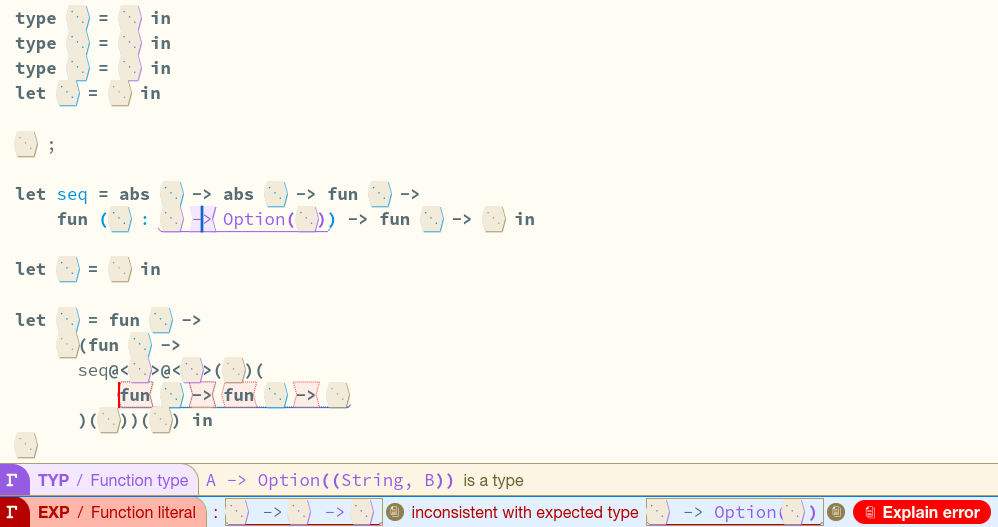
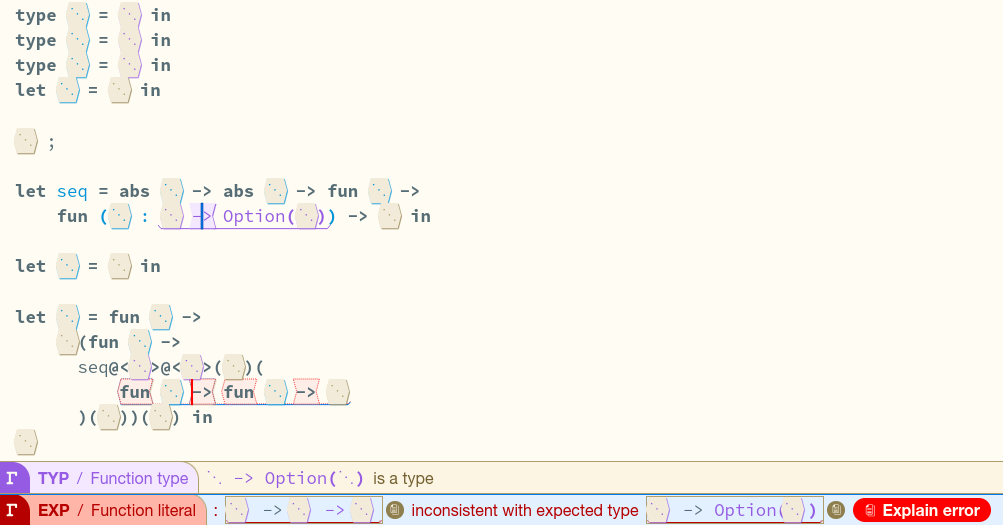
wording edits to intro, examples, remove minor subsection in sec14

diff --git a/intro.tex b/intro.tex
@@ -11,28 +11,28 @@ Programmers must hunt through the program themselves to answer these questions, 
 
 This {paper} develops the theory of \textit{type slicing} from type-theoretic first principles. Type slices allow developers to ask ``why questions''~\cite{developers-ask-why-questions} about type information reported about arbitrary terms within a (possibly incomplete or erroneous) program. The answers are given in the form of a minimal slice of the original program (i.e. a program with unrelated terms folded away) that suffices to reproduce the queried type. 
 
-Type slicing is inspired in principle by prior work on program slicing (reviewed in detail in \cref{sec:related-work}), in particular, lattice-based \textit{Galois slicing}~\cite{Perera2012,Ricciotti2017,PereraGarg2016,PereraVis2022,AtkeyPerera2025}. However, slicing is here applied to a (non-Galois) static type checking setting, loosely more akin to type-error slicing~\cite{Wand1986,HaackWells2003,TipDinesh2001} (but our model also explains well-typed programs), and the concurrent independently researched work on \emph{type-directed slicing}~\cite{TypeDirectedSlicing} for Java.
+Type slicing is inspired in principle by prior work on program slicing (reviewed in detail in \cref{sec:related-work}), in particular, lattice-based \textit{Galois slicing}~\cite{Perera2012,Ricciotti2017,PereraGarg2016,PereraVis2022,AtkeyPerera2025}. However, slicing is here applied to a (non-Galois) static type checking setting, loosely more akin to type-error slicing~\cite{Wand1986,HaackWells2003,TipDinesh2001}, and the concurrent independently researched work on \emph{type-directed slicing}~\cite{TypeDirectedSlicing} for Java.
 
 We consider the problem of type slicing in the context of \emph{bidirectional type systems}~\cite{BidirectionalTypes}, which distinguish \emph{type synthesis} (which type does this term have) from \emph{type analysis} (which type is expected).
 Correspondingly, a \textit{synthesis slice} (\cref{sec:synthesis}) of a selected term answers ``which parts of the program caused it to have type $\tau$?'' and an \textit{analysis slice} (\cref{sec:analysis}) answers the complementary question, ``which parts of the surrounding program enforced that this term have type $\tau$?''
 
 Queries can be \textit{refined}, say from an entire function type to just its codomain, resulting in a smaller slice. This allows a programmer to incrementally focus on sub-parts of the type that are of interest. For example, maybe after some exploration, the programmer determines that only a small region of a large record type involved in a type error is erroneous.
 
-The type slicing machinery applies equally well to well-typed and ill-typed terms. In the case of ill-typed terms, it provides a mechanism that may aid in debugging type errors.
+\paragraph{Type Error Debugging} The type slicing machinery applies equally well to well-typed and ill-typed terms. In the case of ill-typed terms, it provides a mechanism that may aid in debugging type errors, subsuming the question of ``why is this term a type error?''
 
 A distinguishing feature of type slicing is that a slice is itself a valid incomplete program that preserves the original's shape; in Hazel, which allows incomplete programs, this is simply a valid program. Type slicing therefore \emph{composes} with most other type debugging methods in the literature rather than competing with them, as we can simpy run them on the minimised programs. 
 
-For example, there has been much research into improving error \emph{localisation} in globally inferred languages~\cite{ZhangMyers2014,PavlinovicKingWies2014}; these techniques do not apply to the bidirectionally typed language this paper considers, but would be equally applicable to one which uses global constraints, for example \edited{a bidirectional system with constraint-based inference of implicit type instantiations~\cite{BidirectionalHigherRank}}. Equally, \emph{counter-factual}~\cite{ChenErwig2014,LernerSeminal2007} type debugging reports the type/program edits that would make the program type-check, often interactively~\cite{Chitil2001}; these would be equally applicable, and in fact simpler, for minimised programs. 
+For example, there has been much research into improving error \emph{localisation} in globally inferred languages~\cite{ZhangMyers2014,PavlinovicKingWies2014}; these techniques do not apply to the bidirectionally typed language this paper considers, but would be equally applicable to one which uses global constraints, for example that of \citet{BidirectionalHigherRank}. Equally, \emph{counter-factual}~\cite{ChenErwig2014,LernerSeminal2007} type debugging reports the type/program edits that would make the program type-check, often interactively~\cite{Chitil2001}; these would be equally applicable, and in fact simpler, for minimised programs. 
 
 Further, editing the `type' of an expression as suggested by one of these tools is not necessarily easy when the surrounding context expects a different type to the edit. Bidirectional type slicing allows you to query this surrounding context via the \textit{analysis slice}, pointing you to surrounding terms (typically annotations) that must be modified in order to make such an edit. Such slices also make refactoring code into different type in general easier by pointing you to the conflicting annotations.
 
 
 \subsection{Contributions}
 \label{sec:scope}
-The theory contributed by this paper applies to \textit{bidirectional type systems} with any form of \textit{downwards static graduality} (\cref{sec:gradual-types}) on expressions, inspired by the gradual typing literature~\cite{GradualRefined} extended to incomplete programs, i.e. programs with holes and marked errors. In particular, the formal development is based on the Hazelnut calculus~\cite{Hazelnut2017} and subsequent work on the marked lambda calculus~\cite{Marking2024}. Notably, we do \textit{not} require any cast dynamics like in gradual type systems, meaning type slicing is applicable to any bidirectional system only by assigning an appropriate precision relation on types and terms (\cref{sec:core-lattice}).
+The theory contributed by this paper applies to \textit{bidirectional type systems} with any form of \textit{downwards static graduality} (\cref{sec:gradual-types}) on expressions, inspired by the gradual typing literature~\cite{GradualRefined} extended to incomplete programs, i.e. programs with holes (and marked errors). In particular, the formal development is mostly based on the Hazelnut calculus~\cite{Hazelnut2017} and subsequent work on the marked lambda calculus~\cite{Marking2024}. Notably, we do \textit{not} require any cast dynamics like in gradual type systems, meaning type slicing is applicable to any bidirectional system only by assigning an appropriate precision relation on types and terms (\cref{sec:core-lattice}).
 The core calculus for type slicing and accompanying metatheory developed in this paper has been mechanised in Agda. This development is available in the supplemental material.
 
-An example full-scale language which satisfies these conditions is Hazel~\cite{hazel-website}, whose implementation we have extended with an efficient linear-time approximation of type slicing. This implementation, which we introduce by example in \cref{sec:slicing-by-example}, is available in the supplemental material. We do not make any specific claims about the usability of the prototype user interface presented in this paper; it is intended only as an initial proof of concept. We expect the theory contributed by this paper to allow a variety of user interfaces for type debugging and explanation to be developed and evaluated in practice. We suggest several avenues for exploration by the community in \cref{sec:further-work}. For example, recent work~\cite{TypeDirectedSlicing} developed a \emph{type-directed} slicer for Java and evaluated it as an aid for debugging type checkers \emph{themselves}, by reducing bug reports against large codebases to small type-behaviour-preserving test cases; we discuss how this relates to type slicing in \cref{sec:related-work}.
+An example full-scale language which satisfies these conditions is Hazel~\cite{hazel-website}, whose implementation we have extended with an efficient linear-time approximation of type slicing. This implementation, which we introduce by example in \cref{sec:slicing-by-example}, is available in the supplemental material. We do not make any specific claims about the usability of the prototype user interface presented in this paper; it is intended only as an initial proof of concept. We expect the theory contributed by this paper to allow a variety of user interfaces and further applications for type debugging and explanation to be developed and evaluated in practice. We suggest several avenues for exploration in \cref{sec:further-work}. For example, recent work~\cite{TypeDirectedSlicing} developed a \emph{type-directed} slicer for Java and evaluated it as an aid for debugging type checkers \emph{themselves}, by reducing bug reports against large codebases to small type-behaviour-preserving test cases; we discuss how this relates to type slicing in \cref{sec:related-work}.
 
 %%% Local Variables:
 %%% mode: LaTeX

diff --git a/ui.tex b/ui.tex
@@ -1,7 +1,11 @@
 \section{Type Slicing in Hazel by Example}
 \label{sec:slicing-by-example}
 
-{This section previews type slicing, formally developed in \cref{sec:synthesis,sec:analysis} over the core calculus of \cref{sec:core-calculus}, through two worked examples in the Hazel implementation. Type slicing answers with a \synsrc{synthesis} slice explains why the term \emph{has} its type and an \anasrc{analysis} slice explains why its context \emph{demands} one. Hazel renders each answer by folding away every fragment the queried type does not require.}
+{This section previews type slicing, formally developed in \cref{sec:synthesis,sec:analysis} over the core calculus of \cref{sec:core-calculus}, through two worked examples in the Hazel implementation. 
+
+The Hazel UI has a cursor inspector at the bottom of the screen which details which type the selected term \textit{has}, and what it \textit{expects}, these are the respective types to calculate a \synsrc{synthesis} slice and an \anasrc{analysis} slice for. 
+
+Hazel renders each slice by folding away every fragment the queried type does not require. The user can refine their slice by themselves folding away part of the type being sliced, which will correspondingly fold away additional fragments of the program.}
 
 \definecolor{annotcolor}{HTML}{955BE3}
 \tikzset{
@@ -54,9 +58,9 @@
 \label{fig:parse-digit-synthesis}
 \end{figure}
 
-\Cref{fig:parse-digit-synthesis} slice a small character parser. The synthesis slice folds the whole function to just the \texttt{String} domain annotation, and the first branch determining the result option type, discarding all other branches.\footnote{Folding all other branches into a single fold projector is not currently supported by the Hazel UI, but is shown here for illustrative purposes.}
+\Cref{fig:parse-digit-synthesis} slices a small character parser. The synthesis slice folds the whole function to just the \texttt{String} domain annotation, and the first branch determining the result option type, discarding all other branches.\footnote{Folding all other branches into a single fold projector is not currently supported by the Hazel UI, but is shown here for illustrative purposes.}
 
-Queries may target \emph{part} of a reported type: asking only about the domain \synsrc{\texttt{String → \fold}} shrinks the slice to exclude the entire function body. This is the minimal \textit{analysis} slice which enforces \anasrc{\texttt{String}} on the argument (\cref{fig:parse-digit-analysis}).
+Refined queries may target \emph{part} of a reported type: for example, asking only about the domain of a function type, by folding away the returned sum type (\synsrc{\texttt{String → \fold}}). The resulting program shrinks the slice to exclude the entire function body (\cref{fig:parse-digit-analysis}). This same slice is also the minimal \textit{analysis} slice which \textit{enforces} \anasrc{\texttt{String}} on the argument.
 \begin{figure}[h]
 \centering
 
@@ -71,7 +75,7 @@ Queries may target \emph{part} of a reported type: asking only about the domain 
   \draw[synl] (d1.south) -- (0.50,0.065);
 \end{scope}
 \end{tikzpicture}
-\caption{Domain-only synthesis slice.}
+\caption{Refined synthesis query omitting the return Option type.}
 \label{fig:parse-digit-domain-query}
 \end{subfigure}\hfill%
 \begin{subfigure}[t]{0.49\linewidth}
@@ -87,11 +91,11 @@ Queries may target \emph{part} of a reported type: asking only about the domain 
   \draw[anal] (c2.south) -- (0.60,0.645);
 \end{scope}
 \end{tikzpicture}
-\caption{Argument analysis slice.}
+\caption{Analysis slice of the \anasrc{\texttt{String}} expectation on the argument of \synsrc{\texttt{parse\_digit}}.}
 \label{fig:parse-digit-argument-analysis}
 \end{subfigure}
 
-\caption{Synthesis and analysis slices for \synsrc{\texttt{parse\_digit}}.}
+\caption{Refined Synthesis slice and analysis slices.}
 \label{fig:parse-digit-analysis}
 \end{figure}
 \begin{figure}[t]
@@ -135,13 +139,12 @@ Queries may target \emph{part} of a reported type: asking only about the domain 
 
 {\Cref{fig:explain-error} considers a much more complex error where a sequencing parser combinator has been defined incorrectly, but used correctly. As is usual, the error has been incorrectly localised to the usage site, trusting the (incorrect) annotation. Specifically, \texttt{seq}'s continuation is annotated as if it returns an \texttt{Option} immediately, rather than first accepting the remaining \texttt{String} threaded out of the previous parser. The use site provides the intended parser continuation.
 
-\emph{Explain error} queries the slices by taking the outermost inconsistency in the types (the function vs the option in the return type). The resulting slice collapses the program to include only the function shape of the continuation and the offending annotation.
+\emph{Explain error} queries the slices by taking only the outermost inconsistency in the types (the function vs the option in the return type). The resulting slice collapses the program to include only the function shape of the continuation and the offending annotation.
 
-Crucially, the slice did not assume the annotation is ground truth. It shows the user why both the expectation's \emph{source} (the annotation) and the \emph{usage} (the function), leaving the programmer to judge which is wrong. This is justified as programmers often add annotations incorrectly to existing code (49\% of the time~\cite{TypeAnnotationStudy}).} Should the user instead wish to trust the context unilaterally, they can simply only consider the synthesis slice (ignoring the annotations). \Cref{sec:marking} makes this precise, applying slicing to marked ill-typed programs.
+Crucially, the slice did not assume the annotation is the ground truth. It shows the user why both the expectation's \emph{source} (the annotation) and the \emph{usage} (the function), leaving the programmer to judge which is wrong. This is justified as programmers often add annotations incorrectly to existing code (49\% of the time~\cite{TypeAnnotationStudy}).} Should the user instead wish to trust the context unilaterally, they can simply only consider the synthesis slice (omitting the analysis slice entirely). \Cref{sec:marking} makes slicing of type errors precise, applying slicing to marked ill-typed programs.
 
-{The user interface is relatively primitive, only folding sliced-away code. Further directions are considered in \cref{sec:future-ui}, such as highlighting \textit{sources} of type information (i.e. the annotation) in order to distinguish these from the `spine' of the program around the selected term (required only to make it syntactically well-formed).}
+{The user interface is relatively primitive, only folding sliced-away code. Minor improvements could include: highlighting \textit{sources} of type information (e.g. annotations) in order to distinguish these from the `spine' of the program around the selected term (required only to make it syntactically well-formed), or extensions to folds to allow folding entire unused let expressions, or case branhces\footnote{As shown in figure 1.}. Additionally, more radical changes could show the minimal types required for each variable used in slice, combined with features like jump-to-definition to quickly navigate within the slice.}
 
-\clearpage
 
 %%% Local Variables:
 %%% mode: LaTeX

diff --git a/conclusions.tex b/conclusions.tex
@@ -24,11 +24,6 @@ This idea and motivation appear in a preliminary workshop paper~\cite{CarrollEtA
 
 However, the strong theoretical properties of slices being slices of the original program is not maintained during dynamic execution as reductions are performed. Tracking dynamic execution, perhaps integrating ideas from Perera~\cite{Perera2012,PereraGarg2016}, would allow users to trace back casts to source code with stronger guarantees.
 
-\subsection{Type Debugging Interfaces}
-\label{sec:future-ui}
-
-The Hazel interface presented in \cref{sec:slicing-by-example} is an initial proof of concept; the theory admits a broader design space of interfaces. Possibilities include hover-based ``why this type?'' explanations integrated into editor services, incremental query refinement by selecting sub-parts of a reported type, and contribution slices (\cref{sec:join-slices}) for previewing the impact of a type-changing refactor. Which of these interaction techniques help programmers in practice, and for which tasks, are empirical questions that we leave to future user studies.
-
 \section{Conclusions}
 \label{sec:conclusions}
 

diff --git a/main.tex b/main.tex
@@ -1,3 +1,4 @@
+
 \PassOptionsToPackage{dvipsnames}{xcolor}
 \documentclass[acmsmall,screen,review,anonymous,nonacm]{acmart}
 
